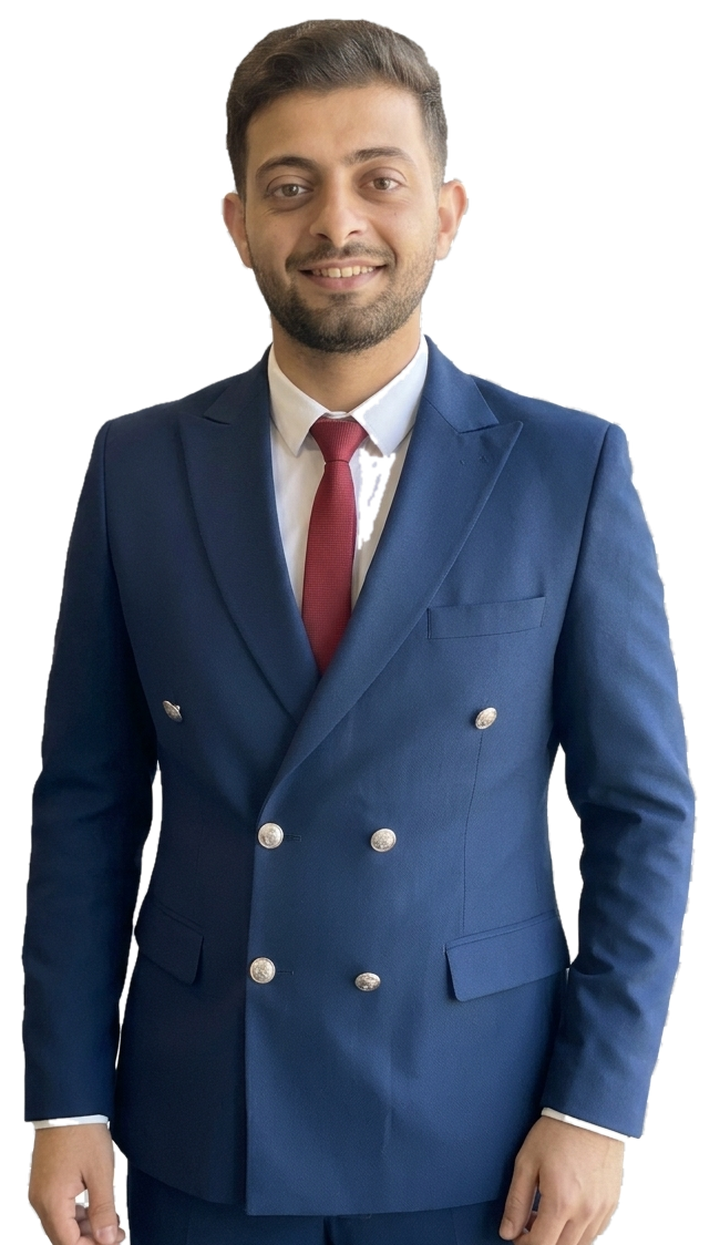
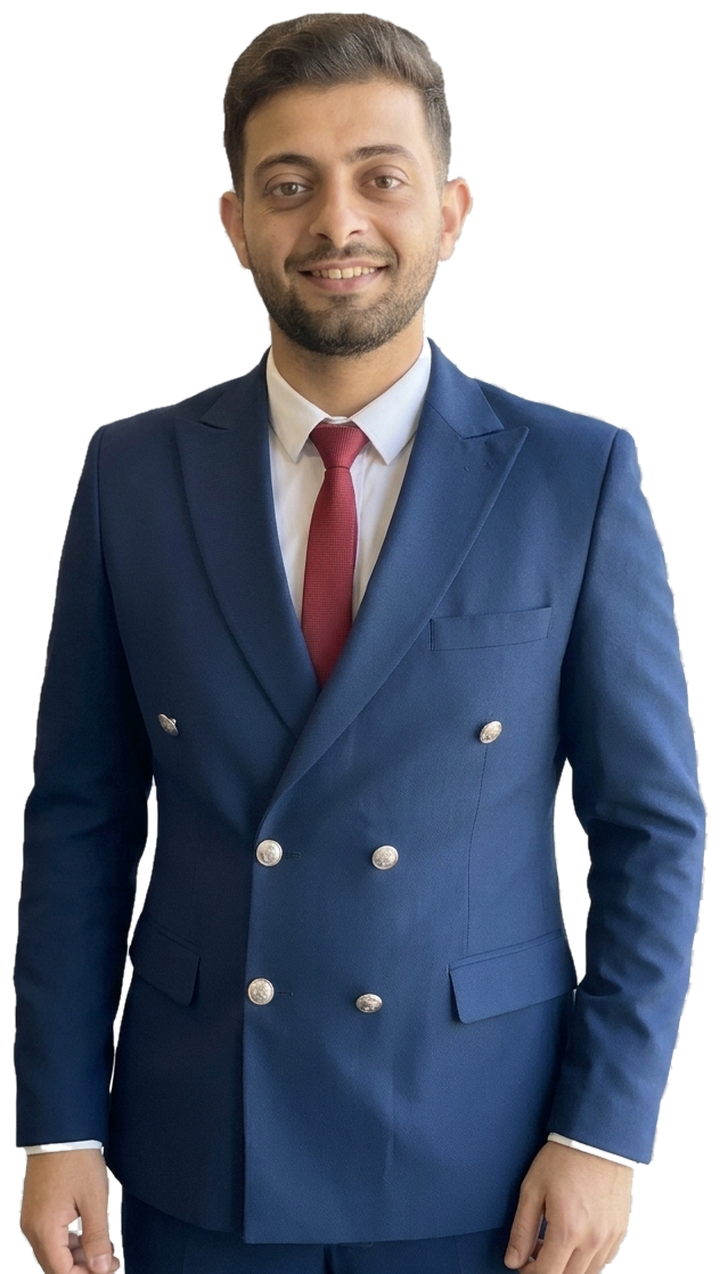
Show full portrait without cropping and fix shirt cut-out
- Restore shirt pixels that were wrongly made transparent beside the tie
- Hero frame uses an aspect ratio instead of a fixed height
- Portrait uses object-fit: contain so no part of it is cropped

Claude-Session: https://claude.ai/code/session_01NxNW4xYC9uCCPpE4CAW4cQ

diff --git a/src/app/globals.css b/src/app/globals.css
@@ -6,14 +6,14 @@ body[data-theme="light"]{--bg:#f6f7fb;--surface:#fff;--surface-2:#edf1f8;--ink:#
 *{box-sizing:border-box}html{scroll-behavior:smooth;scroll-padding-top:88px}body{margin:0;background:var(--bg);color:var(--ink);font-family:var(--sans);font-size:15px;line-height:1.7;transition:background .3s,color .3s}a{color:inherit;text-decoration:none}button,input,textarea,select{font:inherit}button{color:inherit}::selection{background:#698efb55} :focus-visible{outline:2px solid var(--blue);outline-offset:3px}.container{width:min(var(--max),calc(100% - 64px));margin-inline:auto}
 .topbar{height:78px;padding:0 max(32px,calc((100vw - var(--max))/2));display:flex;align-items:center;justify-content:space-between;border-bottom:1px solid var(--line);position:sticky;top:0;z-index:20;background:color-mix(in srgb,var(--bg) 90%,transparent);backdrop-filter:blur(18px)}.wordmark{display:flex;align-items:center;gap:11px;font-size:11px;letter-spacing:.12em;font-weight:600;white-space:nowrap}.wordmark b{color:var(--blue)}.mark{width:32px;height:32px;border:1px solid var(--blue);border-radius:50%;display:grid;place-items:center;color:var(--blue);font:600 10px var(--sans);letter-spacing:-.04em}.main-nav{display:flex;gap:clamp(14px,2vw,26px);align-items:center}.main-nav a{font-size:11px;color:var(--muted);transition:color .2s}.main-nav a:hover{color:var(--blue)}.toolbar{display:flex;align-items:center;gap:8px}.tool-button{border:1px solid var(--line);background:transparent;border-radius:4px;min-width:36px;height:34px;cursor:pointer}.language-button{font-size:11px;font-weight:600}.theme-button{font-size:18px;line-height:1}.menu-button{display:none}
 .hero{position:relative;min-height:665px;padding-top:110px;padding-bottom:85px;display:grid;grid-template-columns:1.12fr .88fr;align-items:center;gap:30px}.hero-copy{max-width:650px;position:relative;z-index:2}.eyebrow,.hero-kicker,.section-number,.card-eyebrow,.visual-label,.hero-bottom,.preview-label{font-size:10px;letter-spacing:.14em;text-transform:uppercase}.eyebrow{display:flex;align-items:center;gap:10px;color:var(--blue);font-weight:600}.live-dot{display:block;width:6px;height:6px;background:var(--blue);border-radius:50%;box-shadow:0 0 0 5px color-mix(in srgb,var(--blue) 18%,transparent)}.hero-kicker{margin-top:37px;color:var(--muted)}h1,h2,h3,p{margin-top:0}.hero h1{font-family:var(--serif);font-size:clamp(47px,6.2vw,82px);font-weight:400;letter-spacing:-.055em;line-height:1.03;margin:16px 0 22px}.hero h1 span{color:var(--blue)}.hero-title{font-size:14px;color:var(--purple);font-weight:500;max-width:520px;margin-bottom:12px}.hero-intro{font-size:16px;color:var(--muted);max-width:540px;line-height:1.85}.hero-actions{display:flex;align-items:center;gap:10px;margin-top:29px;flex-wrap:wrap}.button{min-height:46px;padding:0 16px;display:inline-flex;align-items:center;justify-content:center;gap:20px;border:1px solid transparent;border-radius:4px;font-size:12px;font-weight:600;cursor:pointer;transition:transform .2s,border-color .2s,background .2s}.button:hover{transform:translateY(-2px)}.button span{font-size:16px}.button-primary{background:var(--blue);color:#081326}.button-secondary{border-color:var(--line);background:var(--surface);color:var(--ink)}.button-quiet{padding-inline:8px;background:transparent;color:var(--muted)}.availability{display:flex;align-items:center;gap:10px;color:var(--muted);font-size:11px;margin-top:30px}.status-ring{width:7px;height:7px;border-radius:50%;background:#73d4a2;box-shadow:0 0 0 4px #73d4a222}
-.hero-visual{height:390px;max-width:475px;width:100%;justify-self:end;position:relative;overflow:hidden;border:1px solid var(--line);background:radial-gradient(ellipse at 52% 45%,#172849 0,#10182c 47%,var(--bg) 78%);box-shadow:var(--shadow)}body[data-theme="light"] .hero-visual{background:radial-gradient(ellipse at 52% 45%,#e2eaff 0,#f2f5fc 48%,#e9eef8 78%)}.visual-grid{position:absolute;inset:0;background-image:linear-gradient(#8294bb15 1px,transparent 1px),linear-gradient(90deg,#8294bb15 1px,transparent 1px);background-size:38px 38px;mask-image:linear-gradient(130deg,#000 10%,transparent 90%)}.visual-orbit{position:absolute;left:50%;top:48%;border:1px solid #7596e544;border-radius:50%;transform:translate(-50%,-50%);animation:rotate 24s linear infinite}.orbit-one{width:275px;height:275px}.orbit-two{width:360px;height:200px;transform:translate(-50%,-50%) rotate(-34deg);border-color:#b9a3ff45;animation-direction:reverse}.visual-orbit:after{content:"";position:absolute;left:21%;top:9px;width:7px;height:7px;border-radius:50%;background:var(--purple);box-shadow:0 0 22px var(--purple)}.visual-core{position:absolute;left:50%;top:48%;width:148px;height:148px;display:grid;place-items:center;border-radius:50%;transform:translate(-50%,-50%);background:radial-gradient(circle at 34% 27%,#c6d9ff,#5c83db 42%,#202d58 78%);box-shadow:0 0 80px #6d92f33d,inset 0 0 28px #eaf1ff4d;color:white;font:400 38px var(--serif);letter-spacing:-.08em}.visual-label{position:absolute;z-index:1;color:var(--muted);font-size:8px}.visual-label i{font-style:normal;color:var(--purple);padding:0 4px}.label-top{top:22px;right:21px}.label-bottom{bottom:22px;left:21px}.hero-bottom{position:absolute;bottom:27px;inset-inline:0;display:flex;justify-content:space-between;color:var(--muted);font-size:9px;letter-spacing:.12em}.hero-bottom b{color:var(--blue);padding-inline-start:10px}.intro-band{padding:92px 0 100px;border-top:1px solid var(--line);display:grid;grid-template-columns:.7fr 1.3fr;gap:50px}.section-heading{display:flex;align-items:flex-start;gap:18px}.section-number{color:var(--blue);font-size:10px;min-width:31px;padding-top:10px}.section-heading h2{font:400 38px/1.2 var(--serif);letter-spacing:-.035em;margin:0}.section-heading p{font-size:12px;color:var(--muted);margin:9px 0 0}.intro-content>p{font-size:16px;color:var(--muted);max-width:760px;line-height:1.95;margin:0}.stats{display:grid;grid-template-columns:repeat(3,1fr);margin-top:36px;border-top:1px solid var(--line);padding-top:23px}.stat{display:flex;flex-direction:column;gap:2px}.stat strong{font:400 35px var(--serif);color:var(--ink)}.stat strong small{font-size:20px;color:var(--blue)}.stat span{font-size:10px;color:var(--muted)}
+.hero-visual{height:auto;aspect-ratio:5/6;max-width:475px;width:100%;justify-self:end;position:relative;overflow:hidden;border:1px solid var(--line);background:radial-gradient(ellipse at 52% 45%,#172849 0,#10182c 47%,var(--bg) 78%);box-shadow:var(--shadow)}body[data-theme="light"] .hero-visual{background:radial-gradient(ellipse at 52% 45%,#e2eaff 0,#f2f5fc 48%,#e9eef8 78%)}.visual-grid{position:absolute;inset:0;background-image:linear-gradient(#8294bb15 1px,transparent 1px),linear-gradient(90deg,#8294bb15 1px,transparent 1px);background-size:38px 38px;mask-image:linear-gradient(130deg,#000 10%,transparent 90%)}.visual-orbit{position:absolute;left:50%;top:48%;border:1px solid #7596e544;border-radius:50%;transform:translate(-50%,-50%);animation:rotate 24s linear infinite}.orbit-one{width:275px;height:275px}.orbit-two{width:360px;height:200px;transform:translate(-50%,-50%) rotate(-34deg);border-color:#b9a3ff45;animation-direction:reverse}.visual-orbit:after{content:"";position:absolute;left:21%;top:9px;width:7px;height:7px;border-radius:50%;background:var(--purple);box-shadow:0 0 22px var(--purple)}.visual-core{position:absolute;left:50%;top:48%;width:148px;height:148px;display:grid;place-items:center;border-radius:50%;transform:translate(-50%,-50%);background:radial-gradient(circle at 34% 27%,#c6d9ff,#5c83db 42%,#202d58 78%);box-shadow:0 0 80px #6d92f33d,inset 0 0 28px #eaf1ff4d;color:white;font:400 38px var(--serif);letter-spacing:-.08em}.visual-label{position:absolute;z-index:1;color:var(--muted);font-size:8px}.visual-label i{font-style:normal;color:var(--purple);padding:0 4px}.label-top{top:22px;right:21px}.label-bottom{bottom:22px;left:21px}.hero-bottom{position:absolute;bottom:27px;inset-inline:0;display:flex;justify-content:space-between;color:var(--muted);font-size:9px;letter-spacing:.12em}.hero-bottom b{color:var(--blue);padding-inline-start:10px}.intro-band{padding:92px 0 100px;border-top:1px solid var(--line);display:grid;grid-template-columns:.7fr 1.3fr;gap:50px}.section-heading{display:flex;align-items:flex-start;gap:18px}.section-number{color:var(--blue);font-size:10px;min-width:31px;padding-top:10px}.section-heading h2{font:400 38px/1.2 var(--serif);letter-spacing:-.035em;margin:0}.section-heading p{font-size:12px;color:var(--muted);margin:9px 0 0}.intro-content>p{font-size:16px;color:var(--muted);max-width:760px;line-height:1.95;margin:0}.stats{display:grid;grid-template-columns:repeat(3,1fr);margin-top:36px;border-top:1px solid var(--line);padding-top:23px}.stat{display:flex;flex-direction:column;gap:2px}.stat strong{font:400 35px var(--serif);color:var(--ink)}.stat strong small{font-size:20px;color:var(--blue)}.stat span{font-size:10px;color:var(--muted)}
 .section{padding-top:90px;padding-bottom:92px;border-top:1px solid var(--line)}.section>.section-heading,.section>.container>.section-heading{margin-bottom:42px}.timeline{position:relative;padding-inline-start:35px}.timeline-rail{position:absolute;inset-inline-start:8px;top:4px;bottom:4px;width:1px;background:var(--line)}.timeline-rail span{position:absolute;top:13px;inset-inline-start:-3px;width:7px;height:7px;background:var(--blue);border-radius:50%;box-shadow:0 0 0 6px color-mix(in srgb,var(--blue) 14%,transparent)}.experience-card{display:grid;grid-template-columns:220px 1fr;gap:30px;padding:0 0 0 0}.experience-date{font-size:11px;color:var(--blue);padding-top:8px}.experience-info{border-bottom:1px solid var(--line);padding-bottom:30px}.card-eyebrow{color:var(--purple);font-size:9px;letter-spacing:.1em}.experience-info h3,.skill-card h3,.education-card h3,.project-card h3{font:400 22px/1.35 var(--serif);margin:8px 0}.position{font-size:12px;color:var(--muted)}.experience-info h4{font-size:11px;font-weight:600;margin:22px 0 6px}.experience-info ul{margin:0;padding-inline-start:17px;display:grid;grid-template-columns:repeat(2,minmax(0,1fr));gap:5px 22px;color:var(--muted);font-size:11px}.skills-section,.education-section{background:var(--surface)}.skill-grid{display:grid;grid-template-columns:repeat(3,1fr);gap:13px}.skill-card{background:var(--bg);border:1px solid var(--line);padding:22px;min-height:208px;transition:transform .2s,border-color .2s}.skill-card:hover,.project-card:hover{transform:translateY(-3px);border-color:color-mix(in srgb,var(--blue) 55%,var(--line))}.skill-card-head{display:flex;justify-content:space-between;color:var(--blue)}.skill-index{font:10px var(--sans);letter-spacing:.1em}.skill-symbol{font-size:18px;color:var(--purple)}.skill-card h3{font-size:17px;min-height:46px;margin:20px 0 16px}.skill-tags{display:flex;flex-wrap:wrap;gap:6px}.skill-tags span{font-size:9px;padding:4px 8px;border:1px solid var(--line);color:var(--muted);border-radius:2px;line-height:1.5}.filters{display:flex;gap:7px;flex-wrap:wrap;margin:-12px 0 20px}.filter{background:transparent;color:var(--muted);border:1px solid var(--line);padding:7px 11px;font-size:10px;cursor:pointer;border-radius:3px}.filter.active{background:var(--blue);border-color:var(--blue);color:#09142a}.project-grid{display:grid;grid-template-columns:repeat(2,1fr);gap:14px}.project-card{display:grid;grid-template-columns:.9fr 1.1fr;min-height:242px;border:1px solid var(--line);background:var(--surface);transition:transform .2s,border-color .2s;overflow:hidden}.project-art{position:relative;min-height:220px;background:linear-gradient(140deg,#121c33,#1d2750 55%,#382b68);display:flex;flex-direction:column;justify-content:space-between;padding:15px;color:#cad5f2;font:8px var(--sans);letter-spacing:.1em;overflow:hidden}.project-art:after{content:"";position:absolute;inset:0;background:linear-gradient(130deg,transparent 45%,#b4a2ff1a 45.3%,transparent 46%);pointer-events:none}.project-orb{position:absolute;left:50%;top:50%;width:104px;height:104px;transform:translate(-50%,-50%);border-radius:50%;border:1px solid #b0bcf86b;box-shadow:0 0 0 16px #8095e20c,0 0 0 34px #8095e20c,0 0 40px #667cff40}.project-orb:after{content:"";position:absolute;width:44px;height:44px;left:50%;top:50%;transform:translate(-50%,-50%);border-radius:50%;background:radial-gradient(circle at 30% 25%,#c1d7ff,#5b73ce 60%,#242952)}.project-category{align-self:flex-start;z-index:1}.project-body{padding:19px 20px;display:flex;flex-direction:column;align-items:flex-start}.project-placeholder{color:var(--purple);font-size:8px;letter-spacing:.04em}.project-card h3{font-size:18px;margin:12px 0 7px}.project-card p{color:var(--muted);font-size:10px;line-height:1.8;margin:0 0 15px}.project-body .skill-tags{margin-top:auto}.education-grid{display:grid;grid-template-columns:1fr 1fr;gap:13px}.education-card{border:1px solid var(--line);background:var(--bg);padding:26px;min-height:200px}.education-icon{font-size:19px;color:var(--blue);margin-bottom:20px}.education-card h3{font-size:19px;margin:10px 0}.education-card p{color:var(--muted);font-size:11px;margin:0}.contact-section{padding:102px 0;display:grid;grid-template-columns:1fr .75fr;gap:80px}.contact-intro h2{font:400 clamp(36px,5vw,55px)/1.1 var(--serif);letter-spacing:-.04em;max-width:550px;margin:20px 0 12px}.contact-intro>p{color:var(--muted);font-size:13px}.contact-details{border-top:1px solid var(--line);margin-top:32px}.contact-details>a,.contact-details>div{display:grid;grid-template-columns:110px 1fr 20px;align-items:center;gap:12px;padding:13px 0;border-bottom:1px solid var(--line)}.contact-details span{font-size:10px;color:var(--muted)}.contact-details b{font-size:12px;font-weight:500}.contact-details i{font-style:normal;color:var(--blue);text-align:end}.social-placeholders{display:flex;gap:10px;flex-wrap:wrap;margin-top:18px}.social-placeholders span,.social-placeholders a{font-size:9px;color:var(--muted);border:1px solid var(--line);padding:6px 8px}.contact-form{display:flex;flex-direction:column;gap:15px;padding-top:11px}.contact-form label{font-size:10px;color:var(--muted);display:flex;flex-direction:column;gap:7px}.contact-form input,.contact-form textarea{width:100%;border:1px solid var(--line);background:var(--surface);color:var(--ink);padding:12px;border-radius:3px;resize:vertical;font-size:11px}.contact-form textarea{min-height:132px}.contact-form .button{align-self:flex-start}.contact-form small{font-size:9px;color:var(--muted)}.footer{min-height:76px;border-top:1px solid var(--line);display:flex;align-items:center;justify-content:space-between;gap:20px;color:var(--muted)}.footer p{font-size:9px;margin:0}.footer>span{font-size:9px;white-space:nowrap}
 .cv-backdrop{position:fixed;z-index:40;inset:0;background:#030817bf;display:grid;place-items:center;padding:24px;backdrop-filter:blur(7px)}.cv-dialog{width:min(1050px,100%);max-height:min(90vh,900px);overflow:auto;background:var(--bg);border:1px solid var(--line);box-shadow:var(--shadow);padding:25px}.cv-header{display:flex;justify-content:space-between;gap:20px;border-bottom:1px solid var(--line);padding-bottom:17px}.cv-header h2{font:400 26px var(--serif);margin:6px 0}.cv-header p{font-size:10px;color:var(--muted);margin:0}.close-button{align-self:flex-start;width:34px;height:34px;background:transparent;border:1px solid var(--line);font-size:21px;cursor:pointer}.cv-layout{display:grid;grid-template-columns:220px 1fr;gap:20px;padding-top:20px}.cv-controls{background:var(--surface);border:1px solid var(--line);padding:16px;align-self:start}.cv-controls h3{font-size:12px;margin:0 0 8px}.select-all{background:none;border:0;color:var(--blue);font-size:9px;padding:0 0 11px;cursor:pointer}.check-row{display:flex;align-items:center;gap:8px;padding:8px 0;border-top:1px solid var(--line);font-size:10px}.check-row input{accent-color:var(--blue)}.cv-language{display:flex;flex-direction:column;gap:6px;margin-top:15px;font-size:10px}.cv-language select{padding:7px;background:var(--bg);border:1px solid var(--line);color:var(--ink)}.print-button{width:100%;margin-top:14px}.cv-preview{position:relative;background:#e7ebf2;padding:28px;min-height:450px;overflow:auto;color:#202838}.preview-label{position:absolute;top:8px;right:10px;color:#677185;font-size:8px}.cv-document{background:white;color:#242a35;max-width:680px;margin:12px auto;padding:34px 38px;box-shadow:0 8px 30px #15213a18;font:9px/1.55 Arial,sans-serif;min-height:570px}.cv-doc-head{border-bottom:2px solid #315fa9;padding-bottom:12px;margin-bottom:12px}.cv-doc-head h1{font:bold 21px Arial;margin:0 0 4px;letter-spacing:0}.cv-doc-head p{font-size:10px;color:#315fa9;font-weight:600;margin:0 0 5px}.cv-doc-head div{font-size:8px;color:#596274}.cv-document section{margin:11px 0;padding:0;border:0}.cv-document section h2{font:bold 10px Arial;text-transform:uppercase;color:#315fa9;border-bottom:1px solid #d7deea;padding-bottom:3px;margin:0 0 6px}.cv-document section p{margin:2px 0}.cv-document .cv-entry{margin:6px 0}.cv-entry strong{display:block;font-size:9px}.cv-entry span{font-size:8px;color:#566176}.cv-document ul{margin:4px 0;padding-inline-start:15px;columns:2}.cv-document li{padding:0 0 2px}.cv-skill{margin:4px 0!important}.cv-document.rtl{font-family:Arial,Tahoma,sans-serif}.cv-document.rtl .cv-doc-head{text-align:right}.print-cv{display:none}
 @keyframes rotate{to{transform:translate(-50%,-50%) rotate(360deg)}}
-@media(max-width:1020px){.main-nav{gap:12px}.main-nav a{font-size:10px}.hero{min-height:600px;padding-top:82px}.hero-visual{height:340px}.project-card{grid-template-columns:1fr}.project-art{min-height:150px}.contact-section{gap:42px}}
+@media(max-width:1020px){.main-nav{gap:12px}.main-nav a{font-size:10px}.hero{min-height:600px;padding-top:82px}.project-card{grid-template-columns:1fr}.project-art{min-height:150px}.contact-section{gap:42px}}
 @media(max-width:760px){.container{width:calc(100% - 36px)}.topbar{height:66px;padding:0 18px}.main-nav{display:none;position:absolute;inset:65px 0 auto;background:var(--bg);padding:18px 22px 22px;border-bottom:1px solid var(--line);flex-direction:column;align-items:stretch;gap:0}.main-nav.is-open{display:flex}.main-nav a{font-size:13px;padding:10px 0;border-bottom:1px solid var(--line)}.menu-button{display:block}.hero{grid-template-columns:1fr;padding-top:78px;padding-bottom:70px;gap:36px}.hero-visual{justify-self:stretch;max-width:none;height:310px;grid-row:2}.hero-bottom{bottom:20px}.hero-copy{grid-row:1}.hero h1{font-size:clamp(48px,12vw,70px)}.intro-band{padding:63px 0;grid-template-columns:1fr;gap:24px}.section{padding-top:65px;padding-bottom:68px}.section-heading h2{font-size:32px}.section>.section-heading,.section>.container>.section-heading{margin-bottom:30px}.experience-card{grid-template-columns:1fr;gap:8px}.experience-date{padding-top:0}.experience-info ul{grid-template-columns:1fr}.timeline{padding-inline-start:26px}.skill-grid{grid-template-columns:1fr 1fr}.project-grid{grid-template-columns:1fr}.project-card{grid-template-columns:.8fr 1.2fr}.project-art{min-height:210px}.contact-section{grid-template-columns:1fr;gap:30px;padding:70px 0}.footer{padding:18px 0;flex-wrap:wrap}.footer p{display:none}.cv-dialog{padding:17px}.cv-layout{grid-template-columns:1fr}.cv-controls{order:2}.cv-preview{order:1;padding:20px 10px}.cv-document{padding:25px 20px}.cv-document ul{columns:1}}
-@media(max-width:480px){.hero-actions{gap:7px}.hero-actions .button{font-size:10px;padding:0 10px;gap:10px}.hero-intro{font-size:14px}.hero-visual{height:265px}.skill-grid,.education-grid{grid-template-columns:1fr}.skill-card{min-height:auto}.skill-card h3{min-height:0}.project-card{grid-template-columns:1fr}.project-art{min-height:155px}.stats{gap:8px}.stat strong{font-size:28px}.stat span{font-size:9px}.contact-details>a,.contact-details>div{grid-template-columns:76px 1fr 16px}.contact-details b{font-size:10px}.footer .wordmark{font-size:9px}.footer>span{font-size:8px}.cv-backdrop{padding:9px}.cv-dialog{max-height:95vh}}
+@media(max-width:480px){.hero-actions{gap:7px}.hero-actions .button{font-size:10px;padding:0 10px;gap:10px}.hero-intro{font-size:14px}.skill-grid,.education-grid{grid-template-columns:1fr}.skill-card{min-height:auto}.skill-card h3{min-height:0}.project-card{grid-template-columns:1fr}.project-art{min-height:155px}.stats{gap:8px}.stat strong{font-size:28px}.stat span{font-size:9px}.contact-details>a,.contact-details>div{grid-template-columns:76px 1fr 16px}.contact-details b{font-size:10px}.footer .wordmark{font-size:9px}.footer>span{font-size:8px}.cv-backdrop{padding:9px}.cv-dialog{max-height:95vh}}
 body.printing-cv .site-shell,body.printing-cv .cv-backdrop{display:none!important}body.printing-cv .print-cv{display:block!important}
 @media print{ @page{size:A4;margin:14mm}body{background:white!important}.site-shell,.cv-backdrop{display:none!important}.print-cv{display:block!important}.cv-document{max-width:none;min-height:0;margin:0;padding:0;box-shadow:none;font-size:10pt;line-height:1.45}.cv-doc-head h1{font-size:20pt}.cv-document section{break-inside:avoid}.cv-document section h2{font-size:10pt}.cv-entry{break-inside:avoid}.cv-document ul{columns:2}.cv-skill{font-size:9pt} }
 @media(prefers-reduced-motion:reduce){*,*::before,*::after{scroll-behavior:auto!important;animation-duration:.01ms!important;animation-iteration-count:1!important;transition-duration:.01ms!important}}
- .hero-visual{isolation:isolate}.portrait-image{object-fit:cover;object-position:center 24%;z-index:0}.hero-visual:after{content:"";position:absolute;inset:0;z-index:1;background:linear-gradient(180deg,#07101a20 25%,#07101a95 100%)}.visual-grid,.visual-orbit{z-index:2}.visual-grid{opacity:.38}.visual-orbit{opacity:.42}.visual-label{z-index:3;color:#fff;text-shadow:0 1px 8px #000}
+ .hero-visual{isolation:isolate}.portrait-image{object-fit:contain;object-position:center bottom;z-index:0}.hero-visual:after{content:"";position:absolute;inset:0;z-index:1;background:linear-gradient(180deg,#07101a20 25%,#07101a95 100%)}.visual-grid,.visual-orbit{z-index:2}.visual-grid{opacity:.38}.visual-orbit{opacity:.42}.visual-label{z-index:3;color:#fff;text-shadow:0 1px 8px #000}
